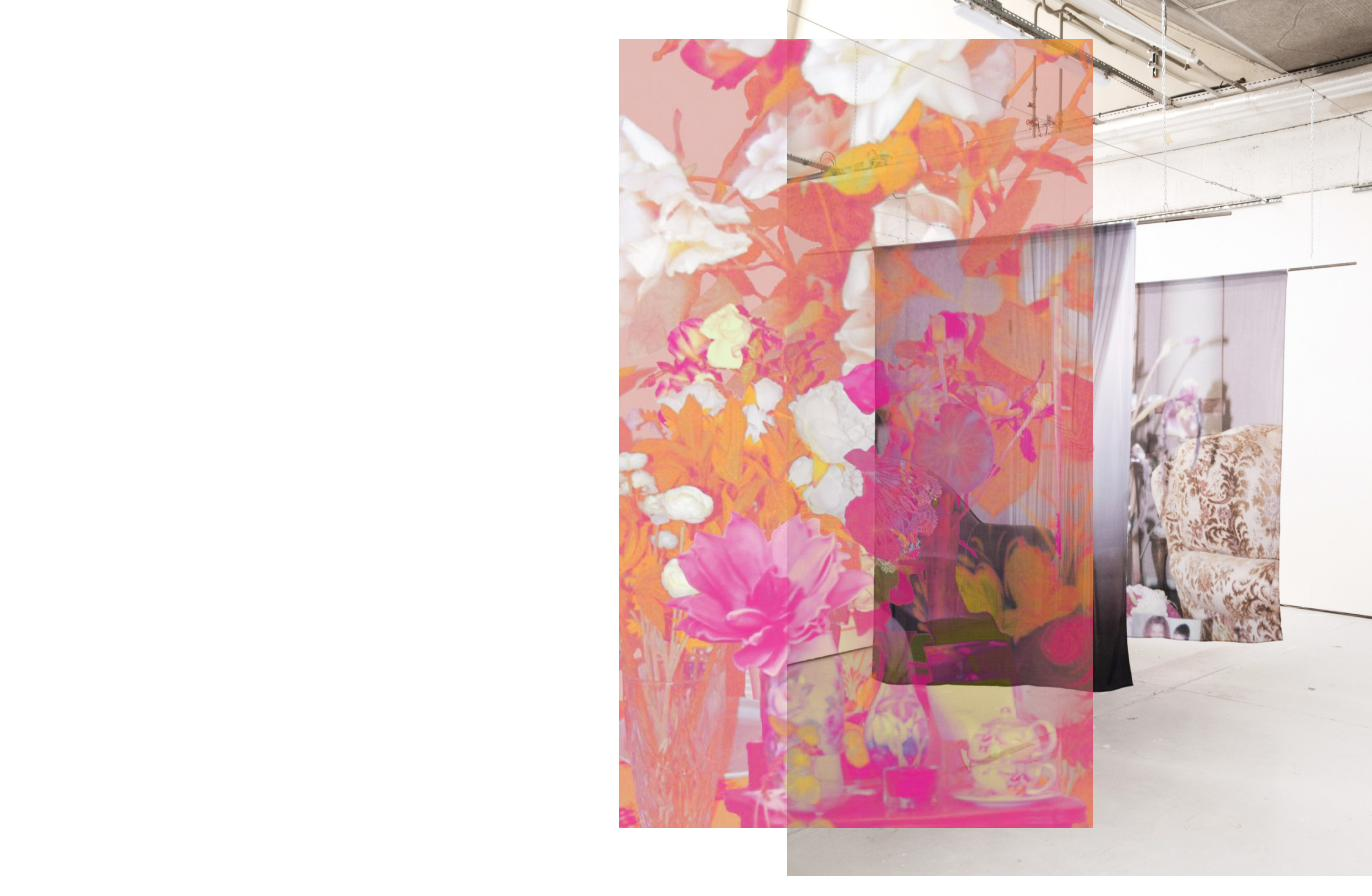
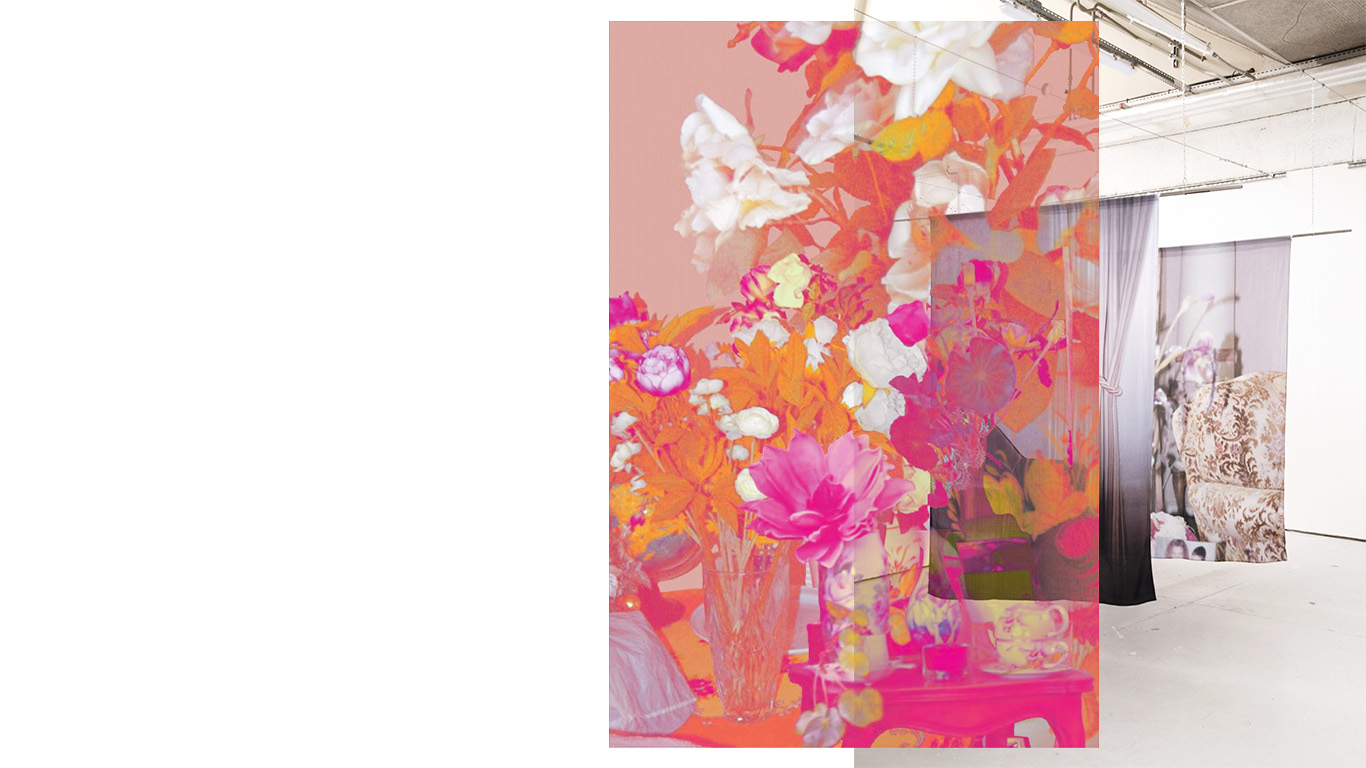
first commit

diff --git a/src/data/content.js b/src/data/content.js
@@ -81,38 +81,37 @@ export const sections = {
   ],
 };
 
-// --- CV (inchangé) — à VÉRIFIER, transcrit du PDF ---
+// --- CV transcrit depuis le nouveau PDF ---
 export const cv = {
   bourses: [
-    '2026 — Homo Faber Fellowship, Fondation Michelangelo, avec l\u2019atelier Mérigot Sanzay. Venise – Paris.',
+    "2026 — Homo Faber Fellowship - Fondation Michelangelo. Avec l'atelier Mérigot Sanzay, Venise - Paris.",
   ],
   expos: [
-    '2025 — Eurofabrique, Gaîté Lyrique, Paris.',
-    '2025 — Lignes de Vie, cur. Mayfly Gallery, Bastille Design Center, Paris.',
-    '2022 — Désert Samples, Galerie Octave Cowbell, Metz.',
+    "2024 — Eurofabrique - Restitution à Cluj-Napoca et à la Gaité Lyrique, Paris.",
+    "2023 — Lignes de Vie, cur. Mayfly Gallery, Bastille Design Center, Paris.",
+    "2022 — Désert Samples - Galerie Octave Cowbell, Metz.",
   ],
   freelance: [
-    '2026 — Tisserande, Diane Collongues, atelier Mérigot Sanzay, Paris.',
-    '2026 — Tisserande, Marie Hazard, projet Ad Hoc, Paris.',
-    '2024-2025 — Chargée de communication, Carel Paris, Paris.',
-    '2025 — Assistante éditoriale, Revue Revive / studio Anémone Image, Paris.',
-    '2022 — Tirage argentique, Studio Pauleon, La Rochelle.',
+    "2026 — Tisserande - Diane Collongues, atelier Mérigot Sanzay, Paris.",
+    "2026 — Tisserande - Marie Hazard, project Ad Hoc, Paris.",
+    "2024-2025 — Chargée de communication - Carel Paris, Paris.",
+    "2023 — Assistante éditoriale - Revue Revive, studio Anémone Image, artistes Amir Tikriti et Célia Cotelle, Paris.",
+    "2022 — Tirage argentique - Studio Pauléon, La Rochelle.",
   ],
   workshop: [
-    '2025 — Technique modéliste, Patrice Datarius, Paris.',
-    '2024-2025 — Eurofabrique, restitutions à Cluj-Napoca et à la Gaîté Lyrique, Paris.',
-    '2025 — Vidéo, Lou Fauroux, Mulhouse.',
-    '2022 — Désert Samples, Marie Quéau, Mulhouse.',
+    "2025 — Technique modélisme - Patrice Dutartre et Catarina Knoch-mulot, Paris.",
+    "2023 — Vidéo - Lou Fauroux, Mulhouse.",
+    "2022 — Désert Samples - Marie Quéau, Mulhouse.",
   ],
   formations: [
-    '2026 — Mastère Spécialisé Management de la Mode et du Luxe (avec mention), Institut Français de la Mode, Paris.',
-    '2024 — DNSEP option Design Textile (avec mention), Haute École des Arts du Rhin, Mulhouse.',
-    '2022 — DNA option Design Textile (félicitations du jury), Haute École des Arts du Rhin, Mulhouse.',
-    '2020 — CPGE Arts et Design (avec mention), Toulouse.',
+    "2026 — Mastère Spécialisé Management de la Mode et du Luxe - avec mention - Institut Français de la Mode, Paris.",
+    "2024 — DNSEP option Design Textile - avec mention - Haute École des Arts du Rhin, Mulhouse.",
+    "2022 — DNA option Design Textile - avec les félicitations du jury - Haute École des Arts du Rhin, Mulhouse.",
+    "2020 — CPGE Arts et Design - avec mention, Toulouse.",
   ],
   evenements: [
-    '2025 — Performance Fleur en Strass, vernissage « Mémoire de l\u2019impression », La Filature Scène Nationale, Mulhouse.',
-    '2025 — Performance Fleur en Strass, série de 5 soirées au DOC, Paris.',
-    '2025 — VJ pour le festival Diététic Park, Chatou.',
+    "2024 — Performance Fleur en Strass - Vernissage de l'exposition Ministère de l'impression à la Filature Scène Nationale, Mulhouse.",
+    "2023 — Performance Fleur en Strass - série de 3 soirées de performances au Doc (19ème), Paris.",
+    "2023 — VJ pour le Festival Elektric Park , Chatou.",
   ],
 };

diff --git a/src/pages/About/About.jsx b/src/pages/About/About.jsx
@@ -8,7 +8,7 @@ import styles from './About.module.css';
 
 // ── Réglage : le CV s'affiche en PDF intégré (true) OU en texte bilingue (false)
 //    Mets false si tu préfères garder la version typographiée FR/EN (dans content.js).
-const CV_AS_PDF = true;
+const CV_AS_PDF = false;
 
 export default function About() {
   const { t } = useLanguage();